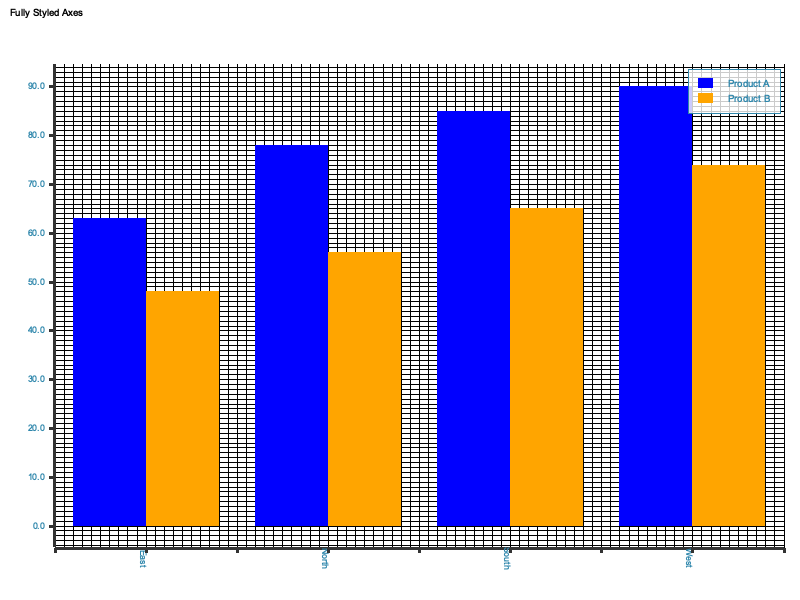
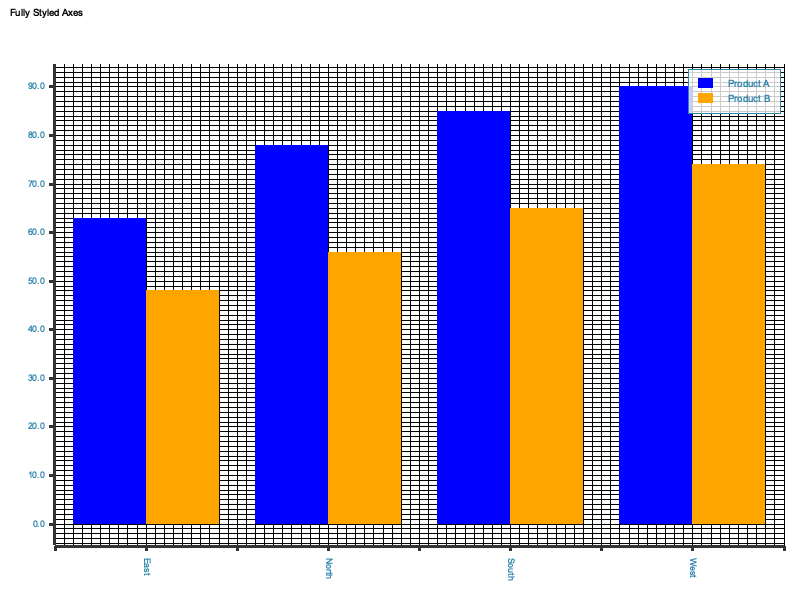
fix issues with rotated tick labels

diff --git a/src/graph.rs b/src/graph.rs
@@ -171,6 +171,10 @@ where
     })
 }
 
+fn blank_tick_label(_value: &f64) -> String {
+    String::new()
+}
+
 fn estimate_numeric_tick_label_width<DB: DrawingBackend>(
     area: &DrawingArea<DB, plotters::coord::Shift>,
     range: (f64, f64),
@@ -206,7 +210,9 @@ fn effective_tick_label_gap(theme: &ResolvedTheme) -> u32 {
 struct AxisLayout {
     x_label_area_size: u32,
     y_label_area_size: u32,
-    tick_gap: u32,
+    x_tick_gap: u32,
+    y_tick_gap: u32,
+    manual_rotated_x_labels: bool,
     max_y_label_width: u32,
     y_desc_width: u32,
     y_label_to_desc_gap: u32,
@@ -252,27 +258,31 @@ fn calculate_axis_layout<DB: DrawingBackend>(
         .unwrap_or(0);
 
     let normalized_angle = ((theme.axis_text.angle % 360.0) + 360.0) % 360.0;
-    let x_label_vertical_extent = if (45.0..135.0).contains(&normalized_angle) || (225.0..315.0).contains(&normalized_angle) {
+    let rotated_x_labels = (45.0..135.0).contains(&normalized_angle) || (225.0..315.0).contains(&normalized_angle);
+    let manual_rotated_x_labels = rotated_x_labels && panel.x_scale.is_categorical;
+    let x_label_vertical_extent = if rotated_x_labels {
         max_x_label_width
     } else {
         max_x_label_height
     };
 
-    let tick_gap: u32 = effective_tick_label_gap(theme);
+    let base_tick_gap: u32 = effective_tick_label_gap(theme);
+    let x_tick_gap: u32 = if rotated_x_labels { base_tick_gap.max(12) } else { base_tick_gap };
+    let y_tick_gap: u32 = base_tick_gap;
     let x_label_to_desc_gap: u32 = 6;
     let y_label_to_desc_gap: u32 = 16;
     let outer_padding: u32 = 4;
 
     let x_tick_block = if panel.x_scale.is_categorical {
-        tick_gap.saturating_add(x_label_vertical_extent)
+        x_tick_gap.saturating_add(x_label_vertical_extent)
     } else {
-        tick_gap.saturating_add(font_size.ceil() as u32)
+        x_tick_gap.saturating_add(font_size.ceil() as u32)
     };
 
     let y_tick_block = if panel.y_scale.is_categorical {
-        tick_gap.saturating_add(max_y_label_width)
+        y_tick_gap.saturating_add(max_y_label_width)
     } else {
-        tick_gap.saturating_add(font_size.ceil() as u32)
+        y_tick_gap.saturating_add(font_size.ceil() as u32)
     };
 
     let x_desc_block = if panel.x_label.is_some() {
@@ -299,12 +309,52 @@ fn calculate_axis_layout<DB: DrawingBackend>(
     AxisLayout {
         x_label_area_size,
         y_label_area_size,
-        tick_gap,
+        x_tick_gap,
+        y_tick_gap,
+        manual_rotated_x_labels,
         max_y_label_width,
         y_desc_width,
         y_label_to_desc_gap,
         outer_padding,
     }
+}
+
+fn draw_manual_rotated_x_tick_labels<DB: DrawingBackend>(
+    area: &DrawingArea<DB, plotters::coord::Shift>,
+    chart: &ChartContext<'_, DB, Cartesian2d<RangedCoordf64, RangedCoordf64>>,
+    panel: &PanelScene,
+    axis_layout: AxisLayout,
+    x_axis_style: &TextStyle,
+    angle: f64,
+) -> Result<()>
+where
+    DB::ErrorType: 'static,
+{
+    if !axis_layout.manual_rotated_x_labels {
+        return Ok(());
+    }
+
+    let (panel_x, panel_y) = area.get_pixel_range();
+    let (_, plot_y) = chart.plotting_area().get_pixel_range();
+    let plot_bottom = plot_y.end - panel_y.start;
+    let anchor = if (45.0..135.0).contains(&angle) {
+        Pos::new(HPos::Left, VPos::Center)
+    } else {
+        Pos::new(HPos::Right, VPos::Center)
+    };
+    let label_style = x_axis_style.clone().pos(anchor);
+
+    for (idx, label) in panel.x_scale.categories.iter().enumerate() {
+        let (abs_x, _) = chart
+            .plotting_area()
+            .map_coordinate(&(idx as f64, panel.y_scale.range.0));
+        let rel_x = abs_x - panel_x.start;
+        let rel_y = plot_bottom + axis_layout.x_tick_gap as i32;
+        area.draw_text(label, &label_style, (rel_x, rel_y))
+            .context("Failed to draw rotated x-axis label")?;
+    }
+
+    Ok(())
 }
 
 fn draw_manual_y_axis_desc<DB: DrawingBackend>(
@@ -328,7 +378,7 @@ where
     let plot_mid_y = (plot_y.start + plot_y.end) / 2 - panel_y.start;
 
     let title_center_x = plot_left
-        - axis_layout.tick_gap as i32
+        - axis_layout.y_tick_gap as i32
         - axis_layout.max_y_label_width as i32
         - axis_layout.y_label_to_desc_gap as i32
         - (axis_layout.y_desc_width as i32 / 2)
@@ -571,7 +621,7 @@ impl Canvas {
             // When axis_ticks is Some, keep default tick size
             // Note: tick color follows axis_style (plotters limitation)
 
-            mesh.x_label_style(x_axis_style);
+            mesh.x_label_style(x_axis_style.clone());
             mesh.y_label_style(y_axis_style);
             mesh.axis_desc_style(axis_desc_style.clone());
         }
@@ -596,8 +646,10 @@ impl Canvas {
             }
         };
 
-        if panel.x_scale.is_categorical {
+        if panel.x_scale.is_categorical && !axis_layout.manual_rotated_x_labels {
             mesh.x_label_formatter(&formatter_x);
+        } else if axis_layout.manual_rotated_x_labels {
+            mesh.x_label_formatter(&blank_tick_label);
         }
 
         // Custom Y Labels if categorical (e.g. coord_flip)
@@ -620,6 +672,7 @@ impl Canvas {
         
         mesh.draw().context("Failed to draw mesh")?;
 
+        draw_manual_rotated_x_tick_labels(area, &chart, panel, axis_layout, &x_axis_style, theme.axis_text.angle)?;
         draw_manual_y_axis_desc(area, &chart, panel, axis_layout, &axis_desc_style)?;
 
         // Draw Commands
@@ -842,6 +895,8 @@ mod tests {
         );
 
         assert!(layout.x_label_area_size >= 80, "expected rotated labels to reserve more space, got {}", layout.x_label_area_size);
+        assert!(layout.x_tick_gap >= 30, "expected rotated labels to reserve a larger tick gap, got {}", layout.x_tick_gap);
+        assert!(layout.manual_rotated_x_labels, "expected rotated categorical labels to use manual placement");
     }
 
     #[test]
